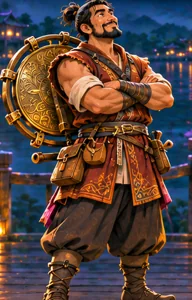
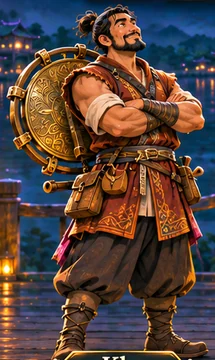
Light Quest: preserve artwork proportions on mobile (#70)

diff --git a/apps/games/light-quest/waterfall/waterfall.css b/apps/games/light-quest/waterfall/waterfall.css
@@ -19,27 +19,36 @@ button:focus-visible,a:focus-visible{outline:2px solid var(--gold);outline-offse
 .intro p{max-width:40ch}
 .characters{display:grid;grid-template-columns:repeat(2,minmax(0,1fr));gap:12px;max-width:600px;margin:16px 0}
 .characters button{overflow:hidden;display:grid;gap:4px;padding:0;background:#10262de8;text-align:left}
-.characters img{width:100%;height:clamp(140px,32vw,250px);object-fit:cover;object-position:center 35%}
+.characters img{width:100%;height:clamp(152px,43vw,270px);object-fit:contain;object-position:center bottom;background:radial-gradient(ellipse at bottom,#345050,#101f26 74%)}
 .characters span{display:grid;padding:8px 11px;gap:4px}
 .characters strong{font:24px Georgia,serif;color:var(--gold)}
 .characters small{font-size:13px}
 .heading{padding:8px 0}
-#scene{isolation:isolate;position:relative;overflow:hidden;aspect-ratio:1000/562;border:1px solid var(--line);border-radius:13px;background:#132b34;box-shadow:0 10px 28px #0007}
+#scene{isolation:isolate;position:relative;overflow:hidden;aspect-ratio:16/9;border-radius:13px;background:#132b34;box-shadow:0 0 0 1px var(--line),0 10px 28px #0007}
 #scene picture,#land,#beam,#objects{position:absolute;inset:0;width:100%;height:100%}
-#land{object-fit:fill}
+#scene:not([data-area="hub"]){aspect-ratio:3/2}
+#land{object-fit:contain}
 #beam,#objects{pointer-events:none}
 #beam line{vector-effect:non-scaling-stroke;stroke-linecap:round}
 #objects{z-index:2}
-.marker{pointer-events:auto;position:absolute;left:var(--x);top:var(--y);transform:translate(-50%,-50%);padding:0 5px;min-width:44px;background:#091e2be8;border-color:#e9c27ba0;font-size:clamp(10px,1.7vw,14px);line-height:1.12}
+.marker{pointer-events:auto;position:absolute;left:var(--x);top:var(--y);transform:translate(-50%,-50%);padding:0 5px;min-width:44px;background:linear-gradient(#193840ed,#0b2129f2);border-color:#e9c27ba0;box-shadow:0 2px 10px #041217ad;border-radius:99px;font-size:clamp(10px,1.7vw,14px);line-height:1.12}
 .marker small{display:block;font-size:.8em;color:#ccdcdb}
-.marker[data-powered]{border-color:#78edff;box-shadow:0 0 12px #61ddfbb8}
+.marker[data-powered]{color:#fff0cf;border-color:#f6cd82;box-shadow:0 0 12px #e9bd5f85;background:linear-gradient(#5d4826f6,#302a1df6)}
 .marker[data-focus]{outline:2px solid #f1c479;outline-offset:3px}
 .marker.mirror{min-height:44px;width:44px;display:grid;place-items:center;padding:0}
 .mirror svg{width:34px;height:30px}
 #hero{position:absolute;z-index:3;left:var(--x);top:var(--y);transform:translate(-50%,-82%);display:grid;justify-items:center;pointer-events:none;transition:left .25s,top .25s}
 #hero img{width:clamp(22px,4.5vw,48px);height:clamp(22px,4.5vw,48px);object-fit:cover;object-position:center 12%;border:1px solid var(--gold);border-radius:50%;background:#10323a}
 #hero span{background:#081b22f0;color:var(--gold);border-radius:5px;padding:1px 4px;font-size:10px}
-#status{margin:8px 0;color:#dbe7dd;min-height:2.8em}
+.play-controls{margin-top:12px;padding:10px 12px;border:1px solid #a6905e4d;border-radius:12px;background:#10262bd9}
+#status{margin:0 0 8px;color:#e2e8dc;line-height:1.5}
+.play-controls .actions button{font-size:13px}
+.play-controls .actions{justify-content:flex-start}
+.marker.mirror{border-radius:50%;background:#10242bc7}
+.marker[data-object="cross"]{padding-inline:9px}
+.marker[data-object="skill"]{max-width:100px}
+.marker[data-object="old"]{left:clamp(27px,var(--x),100%)}
+.marker[data-object="stars"],.marker[data-object="roots"]{left:min(var(--x),calc(100% - 34px))}
 .actions{display:flex;gap:7px;flex-wrap:wrap}
 dialog{width:min(420px,calc(100% - 24px));border:1px solid var(--line);border-radius:14px;color:var(--text);background:#102a30;padding:16px}
 dialog::backdrop{background:#07131ac9}
@@ -47,12 +56,29 @@ dialog form{float:right;margin-left:8px}
 .close{width:44px;padding:0;font-size:23px}
 dialog p{color:#d7e2d7}
 @media (max-width:650px) and (orientation:portrait){
- #scene{aspect-ratio:1.16}
- .marker{font-size:10px}
+ main{width:calc(100% - 16px)}
+ .heading{padding:11px 2px}
+ .marker{font-size:11px}
  .marker small{display:none}
+ .marker[data-object="skill"]{max-width:76px}
+ .play-controls .actions button{flex:1 0 auto}
+ .play-controls{margin-top:10px}
 }
 @media (max-height:500px) and (orientation:landscape){
- main{max-width:calc(100dvh * 1.48)}
+ main{
+   width:min(1160px,100% - 20px);
+   padding-inline:max(0px,env(safe-area-inset-left) - 10px) max(0px,env(safe-area-inset-right) - 10px);
+ }
+ #play{display:grid;grid-template-columns:minmax(0,1fr) clamp(126px,21vw,224px);gap:8px 12px;align-items:start}
+ .heading{grid-column:1/-1}
+ #scene{width:min(100%,calc((100dvh - 92px) * 16 / 9));justify-self:center}
+ #scene:not([data-area="hub"]){width:min(100%,calc((100dvh - 92px) * 3 / 2))}
+ .play-controls{margin:0;padding:9px 10px}
+ .play-controls .actions button{flex:1 0 auto}
+ #status{font-size:13px}
+
+ .heading{padding:4px 0}
+ .marker small{display:none}
  header{min-height:44px}
  h1{font-size:22px}
 }

diff --git a/apps/games/light-quest/waterfall/index.html b/apps/games/light-quest/waterfall/index.html
@@ -18,21 +18,23 @@
         <button id="resume" class="gold" hidden>Tiếp tục</button>
       </div>
       <div class="characters">
-        <button data-character="an"><img src="./an.webp" width="240" height="298" alt=""><span><strong>An</strong><small>Soi dấu để tìm trụ ẩn</small></span></button>
-        <button data-character="kha"><img src="./kha.webp" width="240" height="298" alt=""><span><strong>Kha</strong><small>Đặt gương dã chiến để mở lối tắt</small></span></button>
+        <button data-character="an"><img src="./an.webp" width="200" height="360" alt=""><span><strong>An</strong><small>Soi dấu để tìm trụ ẩn</small></span></button>
+        <button data-character="kha"><img src="./kha.webp" width="215" height="360" alt=""><span><strong>Kha</strong><small>Đặt gương dã chiến để mở lối tắt</small></span></button>
       </div>
       <a class="classic" href="../">Ô sáng cổ điển · 30 màn</a>
     </section>
     <section id="play" hidden>
-      <div class="heading"><h1 id="title" tabindex="-1">Cầu Thác</h1><span id="explored"></span></div>
-      <div id="scene" aria-label="Cảnh giải đố">
+      <div class="heading"><h1 id="title" tabindex="-1">Cầu Thác</h1><span id="explored" aria-live="polite"></span></div>
+      <div id="scene" data-area="hub" aria-label="Cảnh giải đố">
         <picture><source media="(max-width: 650px)" srcset="./falls-small.webp"><img id="land" src="./falls.webp" alt=""></picture>
-        <svg id="beam" viewBox="0 0 1000 562" preserveAspectRatio="none" aria-hidden="true"></svg>
+        <svg id="beam" viewBox="0 0 1000 562.5" preserveAspectRatio="none" aria-hidden="true"></svg>
         <div id="objects"></div>
         <div id="hero" aria-hidden="true"><img id="hero-art" src="./an.webp" alt=""><span id="hero-name"></span></div>
       </div>
-      <p id="status" role="status"></p>
-      <div class="actions"><button id="undo">↶ Hoàn tác</button><button id="hint">✧ Gợi ý</button><button id="return" hidden>Về Cầu Thác</button></div>
+      <div class="play-controls">
+        <p id="status" role="status"></p>
+        <div class="actions"><button id="undo">↶ Hoàn tác</button><button id="hint">✧ Gợi ý</button><button id="return" hidden>Về Cầu Thác</button></div>
+      </div>
     </section>
   </main>
   <dialog id="modal" aria-labelledby="modal-title">

diff --git a/apps/games/light-quest/waterfall/waterfall.js b/apps/games/light-quest/waterfall/waterfall.js
@@ -24,7 +24,7 @@ const locations = {
   source: [140, 142], mirror: [366, 269],
   stars: [885, 145], roots: [851, 420], old: [113, 418],
   upper: [739, 183], lower: [737, 386], idle: [558, 318],
-  hero: [510, 330], bank: [215, 448], crossing: [342, 356], npc: [237, 288], skill: [550, 415], inspect: [222, 398]
+  hero: [510, 330], bank: [215, 448], crossing: [342, 356], npc: [205, 287], skill: [550, 415], inspect: [288, 464]
 };
 let saved = null;
 try { saved = JSON.parse(localStorage.getItem(key)); } catch { /* Saved data is optional. */ }
@@ -44,7 +44,7 @@ const save = () => {
 
 function position(element, point) {
   element.style.setProperty('--x', point[0] / 10 + '%');
-  element.style.setProperty('--y', point[1] / 5.62 + '%');
+  element.style.setProperty('--y', point[1] / 5.625 + '%');
 }
 
 function message(text) { $('status').textContent = text; }
@@ -148,6 +148,7 @@ function render() {
   $('return').classList.toggle('gold', complete);
   if (painted !== scene) {
     painted = scene;
+    $('scene').dataset.area = scene;
     $('scene').querySelector('source').srcset = art[scene][1];
     $('land').src = art[scene][0];
   }
